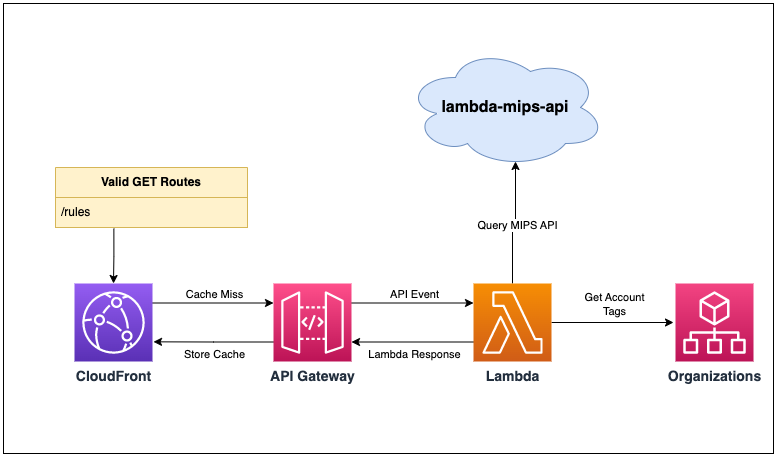
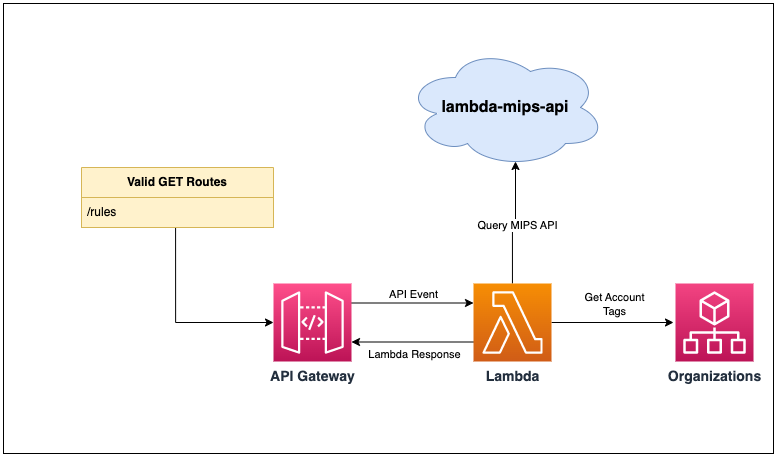
Remove Cloudfront

diff --git a/README.md b/README.md
@@ -37,13 +37,6 @@ For more information on rule processing, see the [AWS User Guide](https://docs.a
 ![Component Diagram](docs/component.diagram.png)
 
 ### Template Parameters
-The following template parameters are used to configure CloudFormation resources:
-| Template Parameter | Description |
-| --- | --- |
-| AcmCertificateArn | ACM certificate when using custom DNS names with Cloudfront |
-| DnsNames | List of custom DNS names for Cloudfront |
-| CacheTTL | TTL value for CloudFront cache objects. |
-
 The following template parameters are passed through as environment variables
 | Template Parameter | Environment Variable | Description |
 | --- | --- | --- |
@@ -52,12 +45,9 @@ The following template parameters are passed through as environment variables
 
 ### Triggering
 The CloudFormation template will output the available endpoint URL for triggering the lambda, e.g.:
-`https://abcxyz.cloudfront.net/rules`
+`https://abcxyz.execute-api.amazonaws.com/rules`
 
 These URLs can be also constructed by appending the API Gateway paths to the CloudFormation domain.
-
-#### Origin URL
-The CloudFormation template also outputs the origin URL behind the CloudFront distribution for debugging purposes.
 
 ### Response
 This lambda will produce the example output when provided with the example external state and default parameters:
